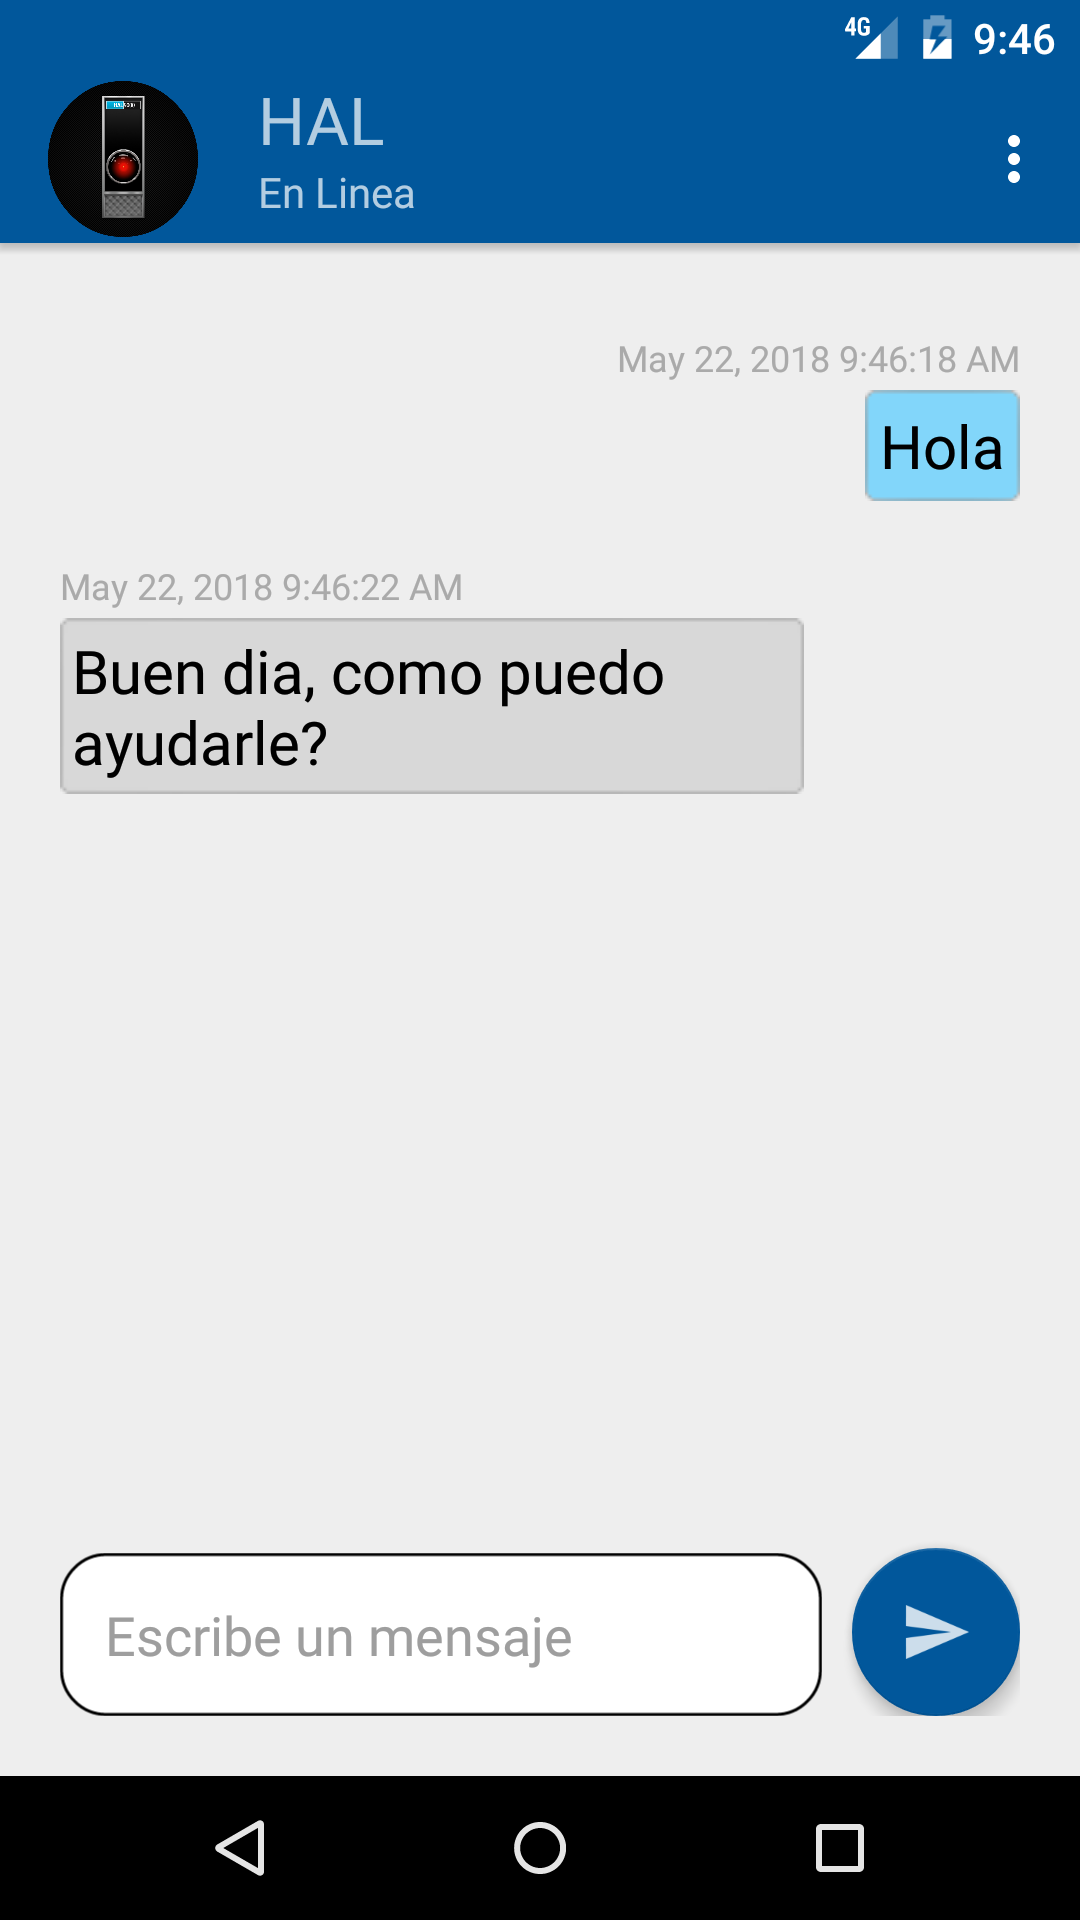
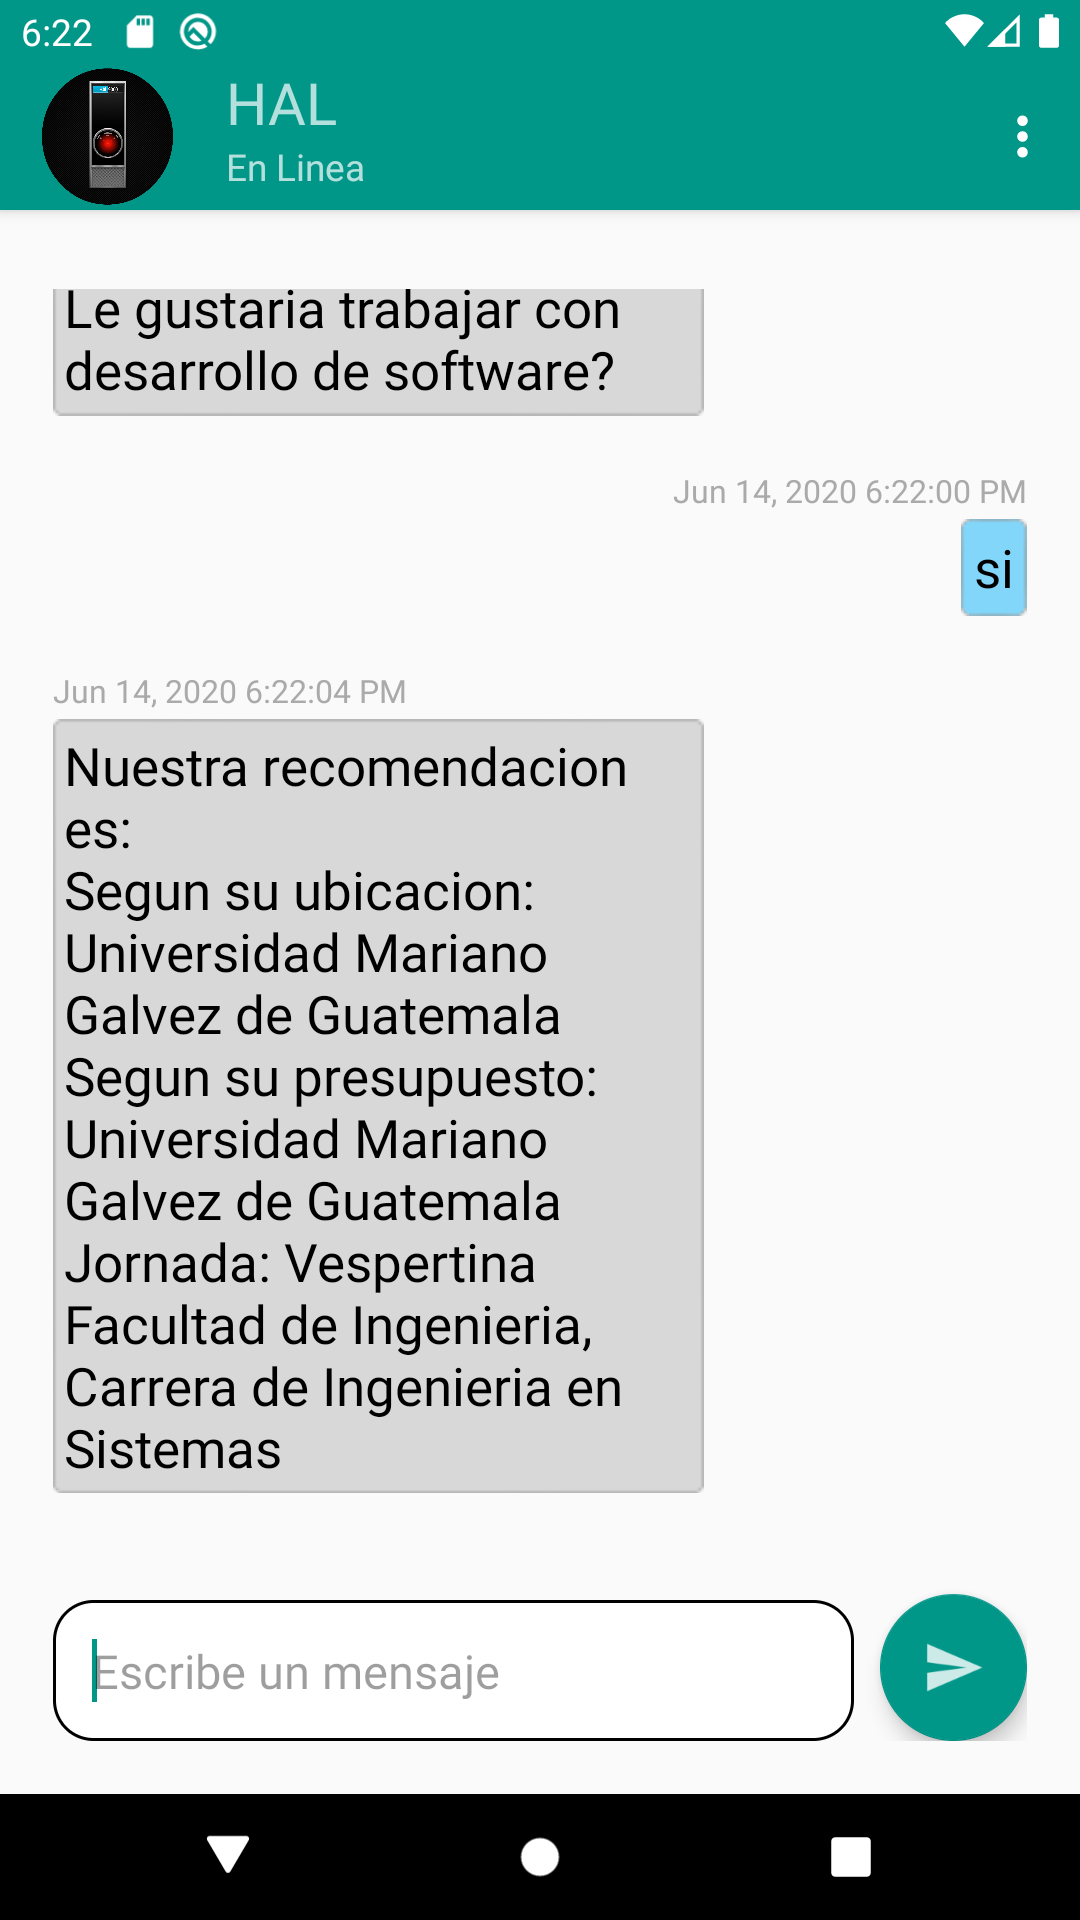
README modified

diff --git a/README.md b/README.md
@@ -1,6 +1,6 @@
 # ChatBot
 
-Esta es una aplicación es un ChatBot, hecha para dispositivos móviles Adroid y que presenta ayuda con las consultas referentes a tarjetas de crédito
+Esta es una aplicación es un ChatBot, hecha para dispositivos móviles Android y que presenta ayuda con las consultas referentes a recomendaciones de Universidades y Facultades segun una serie de preguntas.
 
 ![alt text](https://github.com/JosueGramajo/ChatBot/blob/master/DOCUMENTACION/screenshots/4.png)
 
@@ -14,6 +14,3 @@ La aplicación de Chatbot está destinada a trabajar como un asesor  en el tema 
 
 ## Diagrama de Clases
 ![alt text](https://github.com/JosueGramajo/ChatBot/blob/master/DOCUMENTACION/DiagramaDeClases.png)
-
-## Diagrama de Casos de uso
-![alt text](https://github.com/JosueGramajo/ChatBot/blob/master/DOCUMENTACION/CasosDeUso.png)
